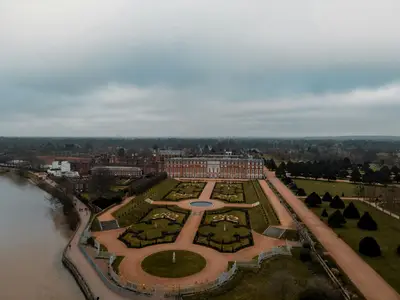
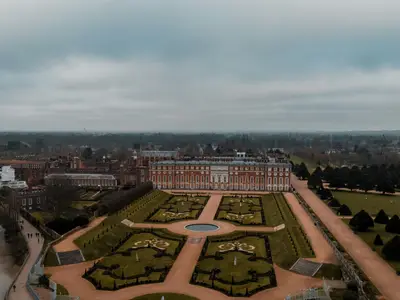
zoom in 30% on Tudors image

diff --git a/england.html b/england.html
@@ -626,7 +626,7 @@ img{max-width:100%;display:block}
 
       <a href="/england/the-tudors" class="history-card reveal" style="transition-delay:0s">
         <div class="hc-image">
-          <img src="/img/en/the-tudors.webp?v=2" alt="The Tudors" loading="lazy" width="800" height="600" onerror="this.parentElement.style.background='linear-gradient(135deg,#1d2a47,#2d1f1f)'">
+          <img src="/img/en/the-tudors.webp?v=3" alt="The Tudors" loading="lazy" width="800" height="600" onerror="this.parentElement.style.background='linear-gradient(135deg,#1d2a47,#2d1f1f)'">
           <span class="hc-date">1485-1603</span>
         </div>
         <div class="hc-body">
